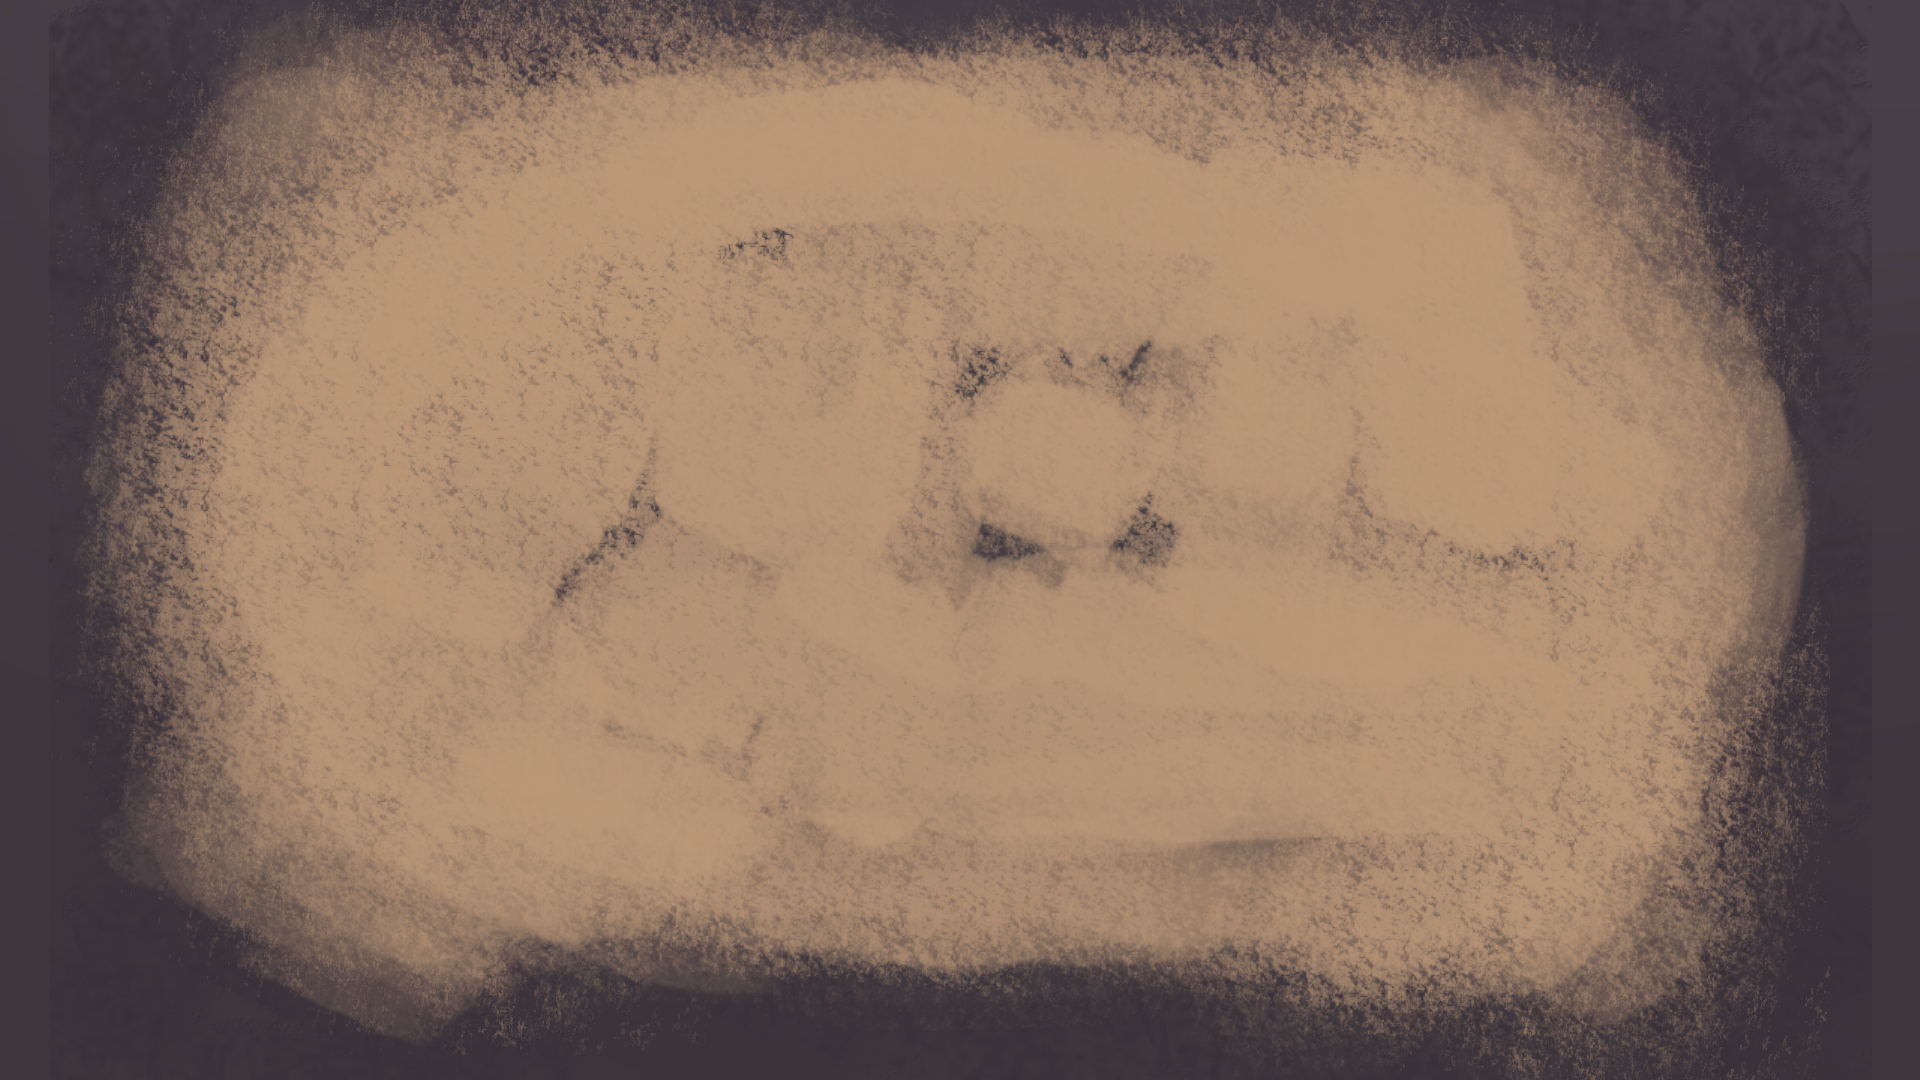
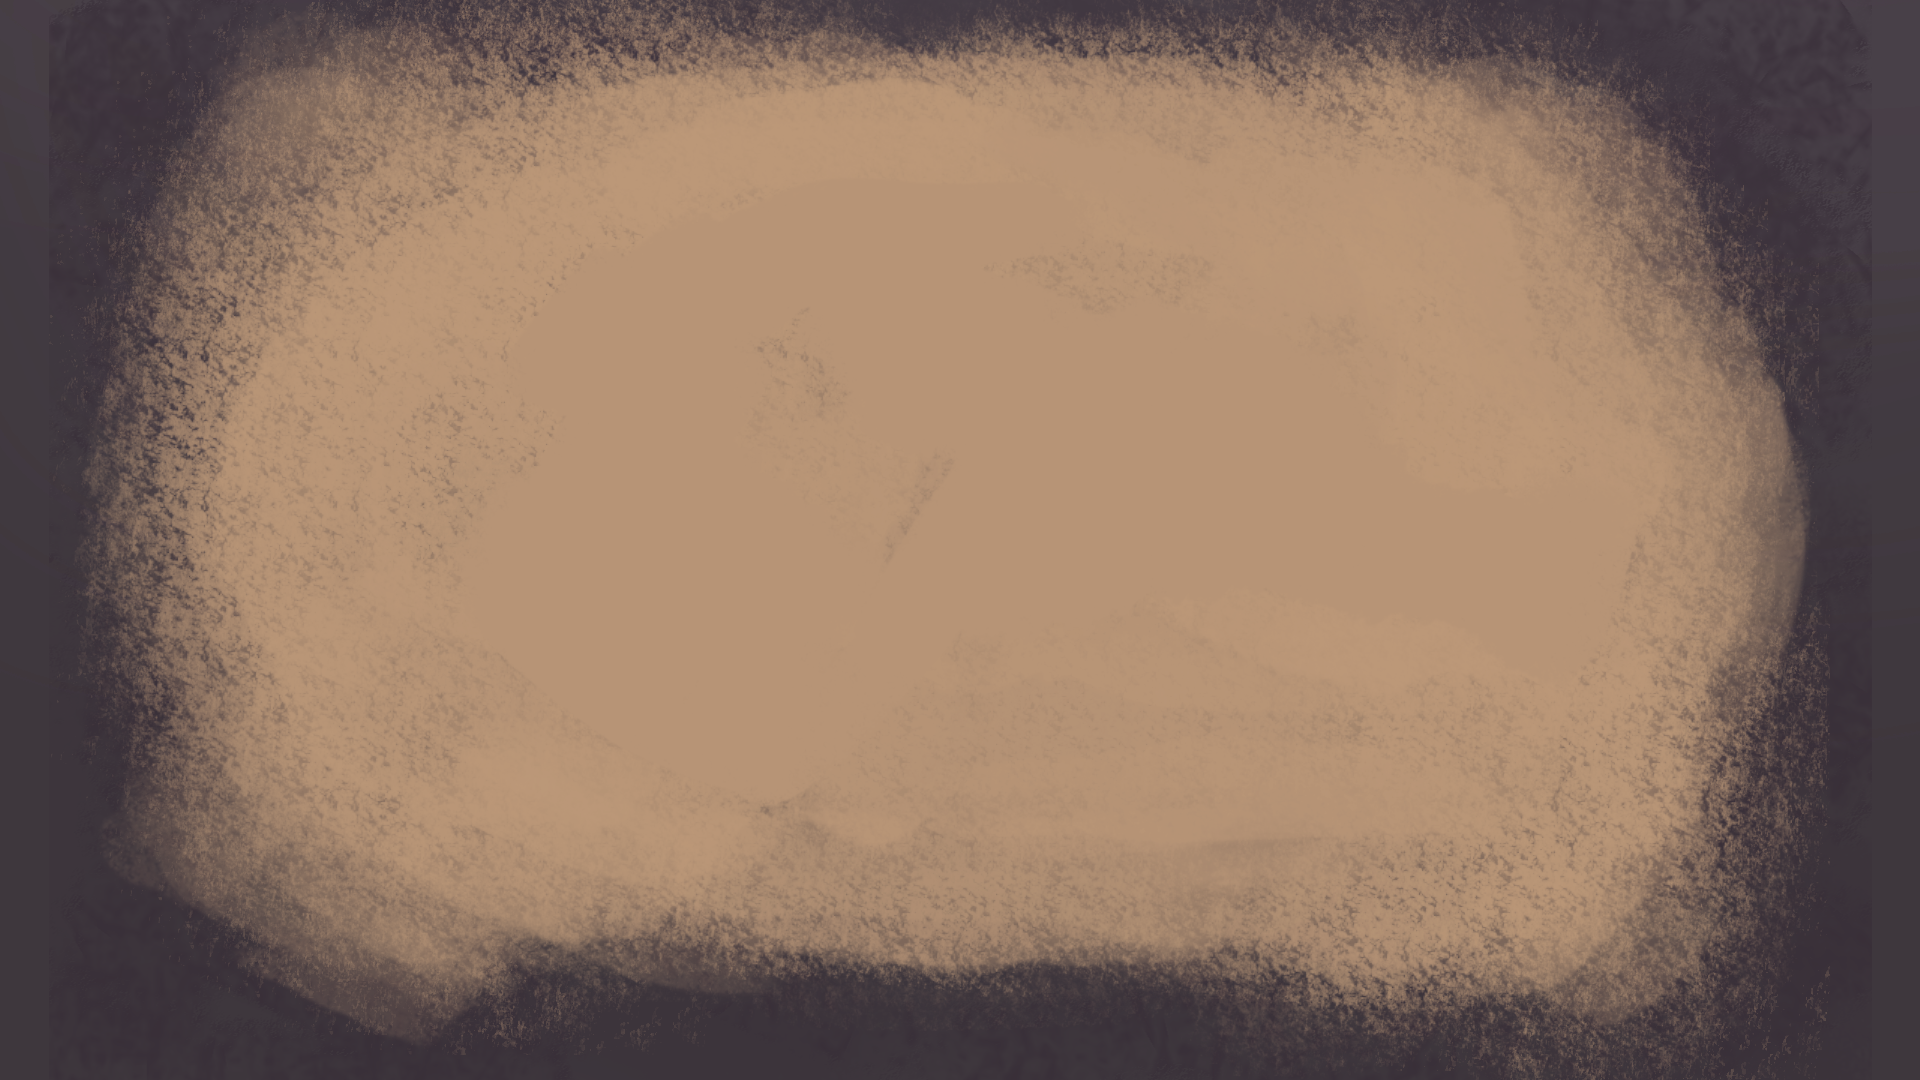
graphics update

diff --git a/resources/qml/scenes/gameplay/characters/AntenaBoy.qml b/resources/qml/scenes/gameplay/characters/AntenaBoy.qml
@@ -3,7 +3,7 @@ import QtGraphicalEffects 1.0
 
 import "../range"
 
-Rectangle {
+Item {
     id: antenaBoy
 
     property QtObject antenaBoyModel
@@ -17,7 +17,30 @@ Rectangle {
 
     x: posX
     y: posY
-    color: isInactive ? "black" : (isTransmitting ? "#900" : "white")
+
+    onIsInactiveChanged: {
+        if (!isInactive) {
+            antenaBoy.opacity = 1
+        }
+    }
+
+    Image {
+        anchors {
+            centerIn: parent
+        }
+
+        source: "qrc:/images/map/AntenaBoy_DoPoprawki.png"
+    }
+
+    SequentialAnimation {
+        id: inactiveAnimation
+
+        running: isInactive
+        loops: Animation.Infinite
+
+        NumberAnimation { target: antenaBoy; property: "opacity"; duration: 250; from: 1; to: 0 }
+        NumberAnimation { target: antenaBoy; property: "opacity"; duration: 250; from: 0; to: 1 }
+    }
 
     Text {
         anchors {
@@ -27,7 +50,8 @@ Rectangle {
         text: (antenaBoyModel.id + 1)
         font {
             bold: true
-            pixelSize: 14
+            pixelSize: 28
         }
+        color: "white"
     }
 }
